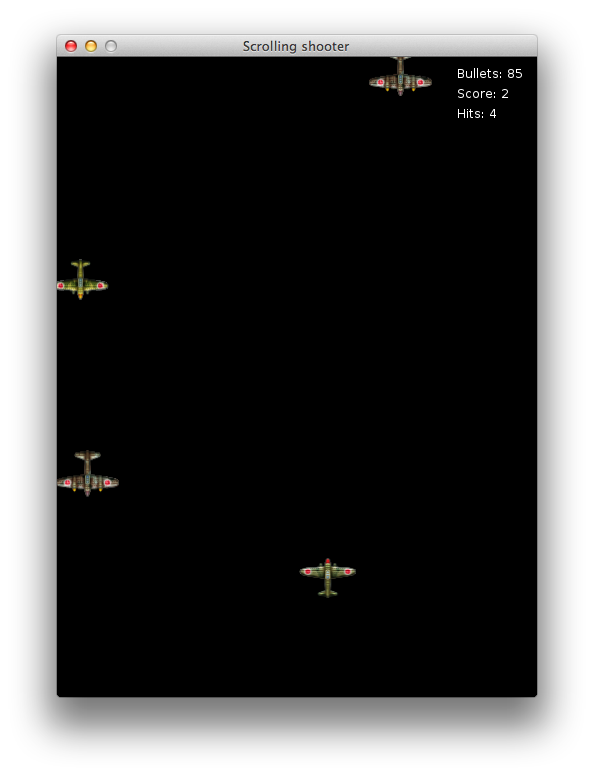
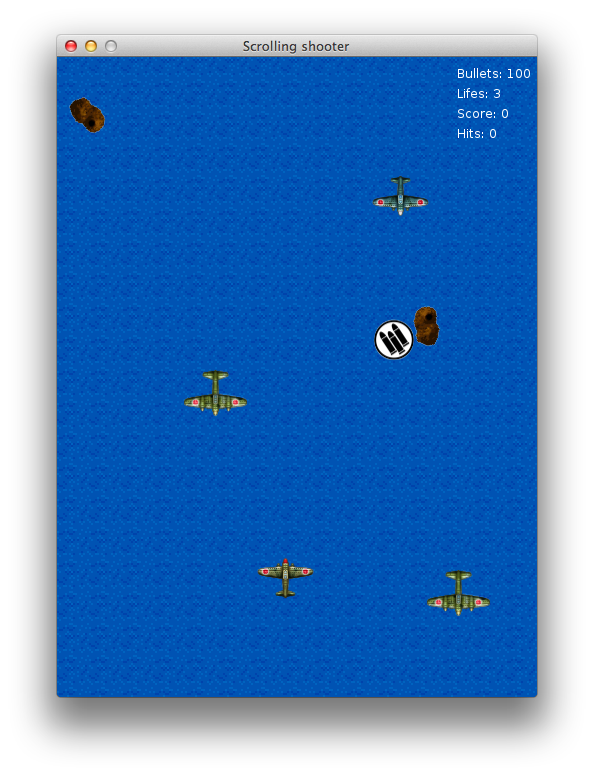
actualize term report

diff --git a/reports/term/template.tex b/reports/term/template.tex
@@ -48,7 +48,12 @@
 Попадания в самолет подсвечиваются. Так же, при попадании, вид самолета меняется, он становится
 немного <<потрепанным>>.
 
-Количество снарядов не бесконечное, их нужно расходовать экономно.
+Самолеты противника тоже могу подбить игрока, они открывают огонь, когда находятся на одной
+линии.
+
+Количество снарядов не бесконечное, их нужно расходовать экономно. Но существует возможность
+пополнить количество снарядов, подобрав бонус. Таким же способом можно пополнить количество
+жизней.
 
 Количество оставшихся снарядов, подбитых вражеских самолетов и общее количество попаданий
 подсчитываются, счетчики расположены в правом верхнем углу.
